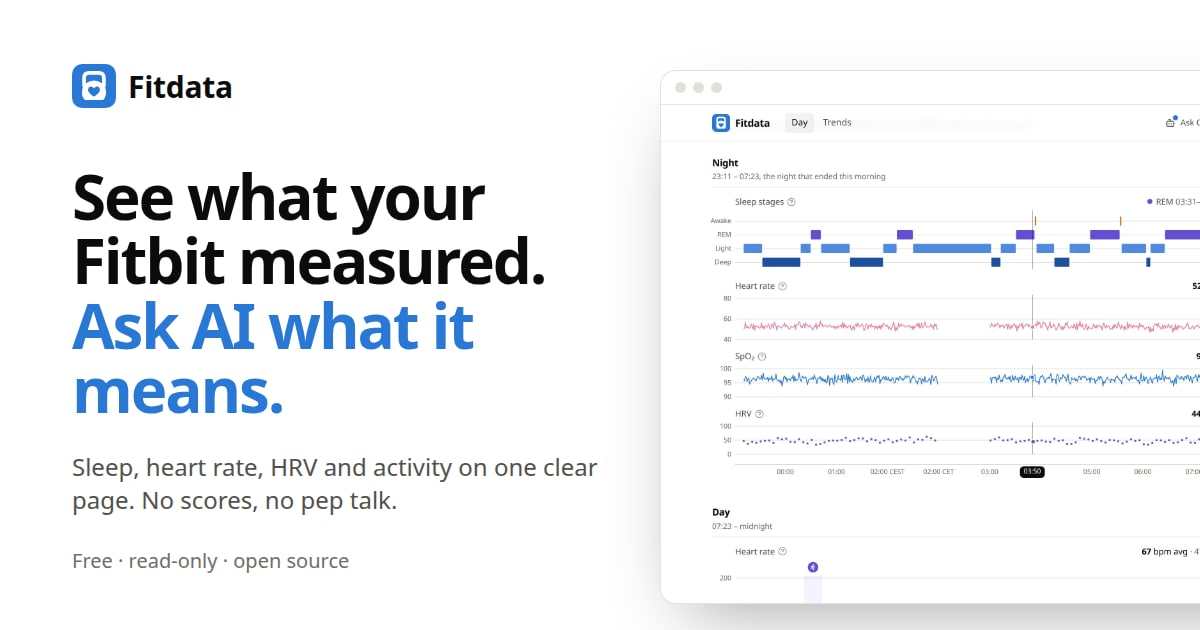
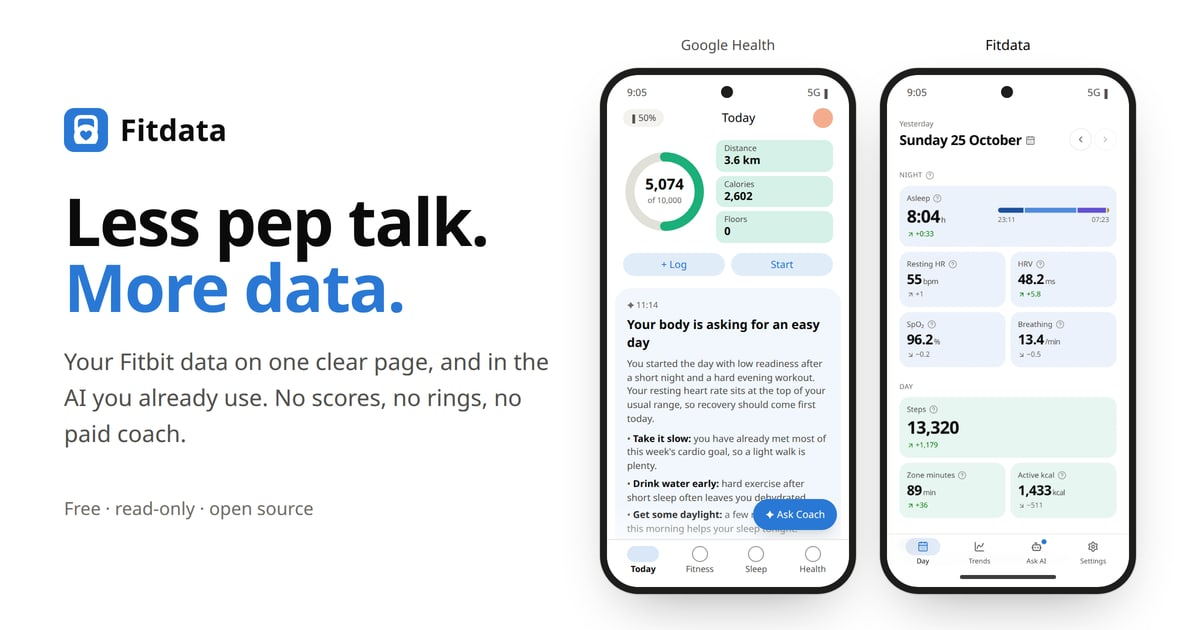
Link preview and title in the new headline: "Less pep talk. More data."
The page title, description and Open Graph tags still carried the old
hero ("See what your Fitbit measured. Ask AI what it means."). They now
match the new one, and the preview image is the hero itself: the
headline beside the Google Health illustration and Fitdata on the same
phone. The image URL gets ?v=2 so networks that cached the old preview
fetch the new one.

diff --git a/frontend/home.html b/frontend/home.html
@@ -5,21 +5,21 @@
     <meta name="viewport" content="width=device-width, initial-scale=1" />
     <meta name="theme-color" content="#ffffff" media="(prefers-color-scheme: light)" />
     <meta name="theme-color" content="#0d0d0d" media="(prefers-color-scheme: dark)" />
-    <title>Fitdata · see what your Fitbit measured, ask AI what it means</title>
+    <title>Fitdata · less pep talk, more data from your Fitbit</title>
     <meta
       name="description"
-      content="Sleep stages, heart rate, HRV, SpO₂ and activity from your Fitbit on one clear page, with every number explained and no scores or pep talk. Ask Claude or ChatGPT about your own data. Free, read-only, open source."
+      content="Your Fitbit&apos;s sleep, heart rate, HRV, SpO₂ and activity on one clear page, and in Claude or ChatGPT. No scores, no rings, no paid coach. Free, read-only, open source."
     />
     <link rel="canonical" href="https://fitdata.jakub.contact/" />
     <meta property="og:type" content="website" />
     <meta property="og:site_name" content="Fitdata" />
     <meta property="og:url" content="https://fitdata.jakub.contact/" />
-    <meta property="og:title" content="See what your Fitbit measured. Ask AI what it means." />
-    <meta property="og:description" content="Your Fitbit data on one clear page, without scores or a coach's pep talk, and in Claude or ChatGPT. Free, read-only, open source." />
-    <meta property="og:image" content="https://fitdata.jakub.contact/og.jpg" />
+    <meta property="og:title" content="Less pep talk. More data." />
+    <meta property="og:description" content="Your Fitbit data on one clear page, and in the AI you already use. No scores, no rings, no paid coach. Free, read-only, open source." />
+    <meta property="og:image" content="https://fitdata.jakub.contact/og.jpg?v=2" />
     <meta property="og:image:width" content="1200" />
     <meta property="og:image:height" content="630" />
-    <meta property="og:image:alt" content="Fitdata: a night of sleep stages, heart rate, SpO₂ and HRV on one time axis" />
+    <meta property="og:image:alt" content="Less pep talk. More data. An illustration of the Google Health app&apos;s Today tab, with a coach&apos;s long text, beside Fitdata on a phone showing the night&apos;s and the day&apos;s numbers" />
     <meta name="twitter:card" content="summary_large_image" />
     <link rel="icon" href="/favicon.ico" sizes="48x48" />
     <link rel="icon" href="/favicon.svg" type="image/svg+xml" />
